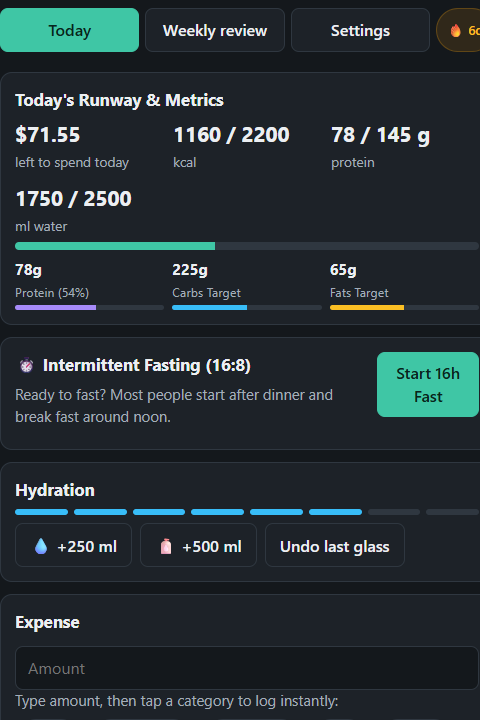
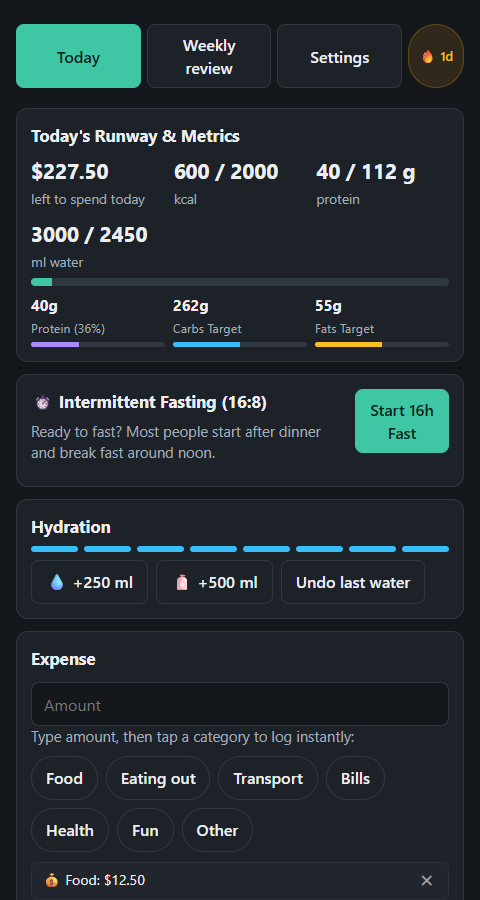
Fix Anna review issues and package Executa v0.1.5

diff --git a/anna/bundle/app.js b/anna/bundle/app.js
@@ -31,14 +31,47 @@ function h(tag, props = {}, ...kids) {
 }
 const $app = document.getElementById("app");
 const $toast = document.getElementById("toast");
+const $dialog = document.getElementById("dialog-root");
 
 let toastTimer;
 function toast(msg, undo) {
   $toast.replaceChildren(h("span", {}, msg));
-  if (undo) $toast.append(h("button", { onclick: () => { undo(); $toast.hidden = true; } }, "Undo"));
+  if (undo) {
+    let used = false;
+    $toast.append(h("button", { onclick: () => {
+      if (used) return;
+      used = true;
+      $toast.hidden = true;
+      clearTimeout(toastTimer);
+      undo();
+    } }, "Undo"));
+  }
   $toast.hidden = false;
   clearTimeout(toastTimer);
   toastTimer = setTimeout(() => ($toast.hidden = true), 5000);
+}
+
+function confirmAction(title, message, action, confirmLabel = "Confirm") {
+  const error = h("p", { class: "error", role: "alert" });
+  const cancel = h("button", { onclick: () => { $dialog.hidden = true; $dialog.replaceChildren(); } }, "Cancel");
+  const confirmButton = h("button", { class: "primary", onclick: async () => {
+    cancel.disabled = confirmButton.disabled = true;
+    error.textContent = "";
+    try {
+      await action();
+      $dialog.hidden = true;
+      $dialog.replaceChildren();
+    } catch (e) {
+      error.textContent = e.message || "The action could not be completed.";
+      cancel.disabled = confirmButton.disabled = false;
+    }
+  } }, confirmLabel);
+  $dialog.replaceChildren(h("div", { class: "dialog-backdrop" },
+    h("div", { class: "dialog-panel", role: "dialog", "aria-modal": "true", "aria-label": title },
+      h("h2", {}, title), h("p", {}, message), error,
+      h("div", { class: "row" }, cancel, confirmButton))));
+  $dialog.hidden = false;
+  cancel.focus();
 }
 
 // ---------- host connection ----------
@@ -121,6 +154,8 @@ async function callTool(method, args) {
 let state = normalize(null);
 let view = new URLSearchParams(location.search).get("view") || "today";
 let reviewState = { status: "idle" };
+let saveQueue = Promise.resolve();
+let stateRevision = 0;
 
 const uid = () => Math.random().toString(36).slice(2, 10);
 const sumWhere = (rows, key, day) => rows.filter((r) => r.date === day).reduce((a, r) => a + (+r[key] || 0), 0);
@@ -160,13 +195,23 @@ function calculateStreak() {
 }
 
 async function commit(msg, undo) {
+  const revision = ++stateRevision;
+  const snapshot = structuredClone(state);
+  const save = saveQueue.then(() => store.save(snapshot));
+  saveQueue = save.catch(() => {});
   try {
-    await store.save(state);
+    await save;
     if (msg) toast(msg, undo);
+    render();
+    return true;
   } catch (e) {
+    if (revision === stateRevision) {
+      try { state = await store.load(); } catch { /* retain the current view */ }
+    }
     toast("Could not save: " + (e.message || "storage error"));
+    render();
+    return false;
   }
-  render();
 }
 
 function addRow(kind, row, label) {
@@ -218,7 +263,7 @@ function onboardingView() {
             inputs: { weight_kg: +f.weight, height_cm: +f.height, age: +f.age, sex: f.sex, activity: f.activity, goal: f.goal },
           };
           state.plan = data;
-          await commit();
+          if (!await commit()) throw new Error("Could not save your numbers.");
         } catch (ex) {
           err.textContent = ex.message;
           btn.disabled = false;
@@ -283,12 +328,11 @@ function fastingWidget() {
           h("span", { class: "badge " + (isComplete ? "badge-success" : "badge-active") }, isComplete ? "Goal Met" : "Active")),
         h("p", { class: "muted" }, `Started ${new Date(f.started_at).toLocaleTimeString([], { hour: '2-digit', minute: '2-digit' })} • Target: ${targetHours} hours`)),
       h("button", {
-        onclick: () => {
-          if (confirm("End fasting session?")) {
+        onclick: () => confirmAction("End fasting session?", "Your current fasting timer will stop.",
+          async () => {
             state.fasting = null;
-            commit("Fast ended.");
-          }
-        }
+            if (!await commit("Fast ended.")) throw new Error("Could not save the fasting change.");
+          }, "End fast")
       }, isComplete ? "Break Fast" : "Stop Fast")),
     h("div", { class: "fasting-timer" },
       h("span", { class: "timer-digits" }, `${hours}h ${minutes}m`),
@@ -331,7 +375,26 @@ function todayView() {
   };
 
   const kcal = h("input", { type: "number", min: 0, inputmode: "numeric", "aria-label": "Calories", placeholder: "kcal" });
-  const prot = h("input", { type: "number", min: 0, inputmode: "numeric", "aria-label": "Protein grams", placeholder: "protein g" });
+  const proteinEdit = /^\d*(?:\.\d*)?$/;
+  const proteinFinal = /^(?:\d+(?:\.\d*)?|\.\d+)$/;
+  let lastProteinValue = "";
+  const prot = h("input", {
+    type: "text", inputmode: "decimal", "aria-label": "Protein grams", placeholder: "protein g",
+    onbeforeinput: (e) => {
+      if (e.data == null) return;
+      const next = prot.value.slice(0, prot.selectionStart) + e.data + prot.value.slice(prot.selectionEnd);
+      if (!proteinEdit.test(next)) e.preventDefault();
+    },
+    onpaste: (e) => {
+      const inserted = e.clipboardData?.getData("text") || "";
+      const next = prot.value.slice(0, prot.selectionStart) + inserted + prot.value.slice(prot.selectionEnd);
+      if (!proteinEdit.test(next)) e.preventDefault();
+    },
+    oninput: () => {
+      if (proteinEdit.test(prot.value)) lastProteinValue = prot.value;
+      else prot.value = lastProteinValue;
+    },
+  });
   const lastMeal = state.meals[state.meals.length - 1];
 
   return h("section", {},
@@ -370,7 +433,7 @@ function todayView() {
         todayWater.length > 0 && h("button", { class: "del-btn", onclick: () => {
           const last = todayWater[todayWater.length - 1];
           removeRow("water", last.id, "Removed last water entry.");
-        } }, "Undo last glass"))),
+        } }, "Undo last water"))),
 
     // Expense Card
     h("div", { class: "card" },
@@ -392,7 +455,11 @@ function todayView() {
         h("button", { class: "primary", onclick: () => {
           const k = parseFloat(kcal.value);
           if (!(k > 0)) { toast("Enter the calories first."); kcal.focus(); return; }
-          addRow("meals", { kcal: k, protein: Math.max(0, parseFloat(prot.value) || 0) }, `Added ${Math.round(k)} kcal`);
+          const proteinText = prot.value.trim();
+          if (proteinText && (!proteinFinal.test(proteinText) || !Number.isFinite(Number(proteinText)))) {
+            toast("Enter a valid protein amount."); prot.focus(); return;
+          }
+          addRow("meals", { kcal: k, protein: proteinText ? Number(proteinText) : 0 }, `Added ${Math.round(k)} kcal`);
           kcal.value = "";
           prot.value = "";
         } }, "Add Meal")),
@@ -466,7 +533,7 @@ async function runReview() {
         nutrition: data.nutrition,
         actions: data.actions
       });
-      await store.save(state);
+      if (!await commit()) throw new Error("Could not save the review.");
     }
   } catch (e) {
     reviewState = { status: "error", message: "The review could not run: " + (e.message || e) };
@@ -520,9 +587,9 @@ function importBackup(e) {
     try {
       const parsed = JSON.parse(evt.target.result);
       state = normalize(parsed);
-      await commit("Backup restored successfully!");
+      if (!await commit("Backup restored successfully!")) throw new Error("Could not save the backup.");
     } catch {
-      toast("Invalid backup file.");
+      toast("The backup could not be restored.");
     }
   };
   reader.readAsText(file);
@@ -552,10 +619,16 @@ function settingsView() {
         fileInput)),
 
     h("div", { class: "card" }, h("h2", {}, "Reset"),
-      h("button", { onclick: async () => {
-        if (!confirm("Delete all entries and targets? This cannot be undone.")) return;
-        state = normalize(null); reviewState = { status: "idle" }; view = "today"; await commit("All data deleted.");
-      } }, "Delete all my data")));
+       h("button", { onclick: () => confirmAction("Delete all my data?",
+         "This permanently deletes your targets and entries from Anna storage. This cannot be undone.", async () => {
+           await saveQueue;
+           const empty = normalize(null);
+           await store.save(empty);
+           stateRevision++;
+           state = empty; reviewState = { status: "idle" }; view = "today";
+           render();
+           toast("All data deleted.");
+         }, "Delete data") }, "Delete all my data")));
 }
 
 function render() {

diff --git a/anna/bundle/style.css b/anna/bundle/style.css
@@ -12,6 +12,7 @@
   --radius: 12px;
 }
 * { box-sizing: border-box; }
+[hidden] { display: none !important; }
 html, body {
   background-color: #14181c !important;
   color-scheme: dark !important;
@@ -107,9 +108,12 @@ ul.actions li { margin-bottom: 8px; }
 .toast {
   position: fixed; left: 50%; bottom: 16px; transform: translateX(-50%);
   background: var(--ink); color: var(--bg); padding: 10px 14px; border-radius: 8px;
-  display: flex; gap: 12px; align-items: center; max-width: 92vw;
+  display: flex; gap: 12px; align-items: center; max-width: 92vw; pointer-events: none;
 }
-.toast button { min-height: 32px; padding: 2px 10px; }
+.toast button { min-height: 32px; padding: 2px 10px; pointer-events: auto; }
+.dialog-backdrop { position: fixed; inset: 0; z-index: 10; display: grid; place-items: center; padding: 16px; background: rgba(0, 0, 0, 0.7); }
+.dialog-panel { width: min(100%, 420px); padding: 20px; border: 1px solid var(--line); border-radius: var(--radius); background: var(--card); box-shadow: 0 12px 40px rgba(0, 0, 0, 0.45); }
+.dialog-panel .row { justify-content: flex-end; margin-top: 16px; }
 .spinner {
   display: inline-block; width: 14px; height: 14px; border-radius: 50%;
   border: 2px solid var(--line); border-top-color: var(--accent);

diff --git a/anna/bundle/index.html b/anna/bundle/index.html
@@ -13,6 +13,7 @@
       <p id="boot" class="muted" role="status">Loading your data…</p>
     </main>
     <div id="toast" class="toast" role="status" aria-live="polite" hidden></div>
+    <div id="dialog-root" hidden></div>
     <script type="module" src="app.js"></script>
   </body>
 </html>

diff --git a/anna/tests/protocol_check.py b/anna/tests/protocol_check.py
@@ -1,0 +1,53 @@
+"""Check the Executa's real JSON-RPC stdio lifecycle.
+
+Run from anna/: python tests/protocol_check.py [path-to-packaged-binary]
+"""
+
+import json
+import subprocess
+import sys
+from pathlib import Path
+
+ROOT = Path(__file__).resolve().parents[1]
+SOURCE = ROOT / "executas" / "smartassistant" / "smartassistant_plugin.py"
+COMMAND = [sys.argv[1]] if len(sys.argv) > 1 else [sys.executable, str(SOURCE)]
+
+
+def request(identifier, method, params=None):
+    data = {"jsonrpc": "2.0", "id": identifier, "method": method}
+    if params is not None:
+        data["params"] = params
+    return json.dumps(data)
+
+
+requests = [
+    request("first", "describe"),
+    request(2, "describe"),
+    request("ping", "invoke", {"tool": "ping", "arguments": {}}),
+    request("invalid", "invoke", {"tool": "plan_targets", "arguments": {}}),
+    request("recovered", "describe"),
+]
+
+process = subprocess.Popen(
+    COMMAND, stdin=subprocess.PIPE, stdout=subprocess.PIPE, stderr=subprocess.PIPE,
+    text=True, encoding="utf-8",
+)
+try:
+    stdout, stderr = process.communicate("\n".join(requests) + "\n", timeout=30)
+except subprocess.TimeoutExpired:
+    process.kill()
+    process.communicate()
+    raise AssertionError("Executa did not answer and exit on EOF")
+
+assert process.returncode == 0, f"Executa exited {process.returncode}: {stderr}"
+responses = [json.loads(line) for line in stdout.splitlines()]
+assert len(responses) == len(requests), f"Unexpected stdout: {stdout!r}"
+assert [response["id"] for response in responses] == ["first", 2, "ping", "invalid", "recovered"]
+assert all(response["jsonrpc"] == "2.0" for response in responses)
+for index in (0, 1, 4):
+    result = responses[index]["result"]
+    assert result["version"] == "0.1.5"
+    assert [tool["name"] for tool in result["tools"]] == ["ping", "plan_targets", "weekly_review"]
+assert responses[2]["result"] == {"success": True, "data": {"pong": True, "version": "0.1.5"}}
+assert responses[3]["result"]["success"] is False
+print("protocol check passed: describe, invoke, failure, recovery, EOF")

diff --git a/anna/executas/smartassistant/smartassistant_plugin.py b/anna/executas/smartassistant/smartassistant_plugin.py
@@ -20,7 +20,7 @@ from collections import defaultdict
 from datetime import date, timedelta
 from calendar import monthrange
 
-VERSION = "0.1.4"
+VERSION = "0.1.5"
 MIN_LOGGED_DAYS = 3
 
 ACTIVITY = {

diff --git a/anna/README.md b/anna/README.md
@@ -40,7 +40,7 @@ Cloud Agent runs on Linux, so a `linux-x86_64` Executa build must exist before y
 
 1. Push a tag: `git tag executa-v0.1.0 && git push origin executa-v0.1.0`.
 2. `.github/workflows/executa-build.yml` runs the tests, builds all three binaries with PyInstaller, smoke-tests them, and attaches the `.tar.gz` and `.sha256` files to the release.
-3. `executas/smartassistant/executa.json` already points at `releases/download/executa-v0.1.0/...`. If you change the version, change the tag and URLs together.
+3. `executas/smartassistant/executa.json` points at the matching `executa-v0.1.5` release. The archive contains `manifest.json` and a `bin/` entrypoint. Change the tag, URLs, and Executa versions together for a future release.
 
 The workflow was not run from this machine. Check the first run on GitHub.
 
@@ -60,8 +60,8 @@ SmartAssistant operates with strict user privacy and offline-first principles:
 
 ## Before you publish (you do these)
 
-- [ ] Run `anna-app validate --strict` and confirm `executa-v0.1.0` assets exist on GitHub.
-- [ ] Add 3 to 5 screenshots: setup result, Today, weekly review result, empty review state.
+- [ ] Run `anna-app validate --strict` and confirm the current Executa release assets exist on GitHub.
+- [ ] Check that the English screenshots shown in Anna match the current app.
 - [ ] Review the description in `app.json` and the categories in the Developer Console.
 - [ ] Join the Builder Discord and post a short demo.
 - [ ] Submit for review, then publish.
